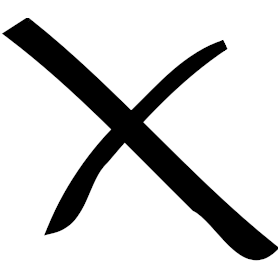
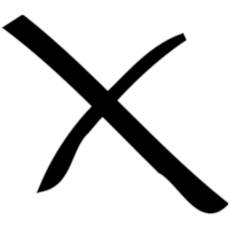
fixed offset imgs at large board size

diff --git a/js/main.js b/js/main.js
@@ -456,7 +456,6 @@ $(document).ready(function() {
       $(`#row${i}`).append(`<div row='${i}' col='${j}' class='col box rounded'></div>`)
       }
     }
-    $('.col.box.rounded').append("<img class=imageInBox/>");
     $('.row').css('height', `${100/cellAmount}%`);
     $('.box').css('width', `${100/cellAmount}%`);
   };
@@ -475,8 +474,8 @@ $(document).ready(function() {
       //Picks random image to print
       let numberPicker = randomInteger(3);
       ticTacToe.turnCount % 2 === 0 ?
-      $(this).find('img:first').attr('class', `displayX${numberPicker + 1}`):
-      $(this).find('img:first').attr('class', `displayO${numberPicker + 1}`)
+      $(this).addClass(`displayX${numberPicker + 1}`):
+      $(this).addClass(`displayO${numberPicker + 1}`)
 
       //prevent further clicks
       $(this).css('pointer-events', 'none');
@@ -494,7 +493,7 @@ $(document).ready(function() {
         let randomRow = ticTacToe.aiCell[0];
         let randomCol = ticTacToe.aiCell[1]
         //prints img and turns off pointer events in div
-        $(`.box[row="${randomRow}"][col="${randomCol}"]`).find('img:first').attr('class', `displayO${randomInteger(3) + 1}`)
+        $(`.box[row="${randomRow}"][col="${randomCol}"]`).addClass(`displayO${randomInteger(3) + 1}`)
         $(`.box[row="${randomRow}"][col="${randomCol}"]`).css('pointer-events', 'none');
         ticTacToe.aiCell[0] = "";
         ticTacToe.aiCell[1] = "";
@@ -531,7 +530,9 @@ $(document).ready(function() {
 
   $('#replayButton').on('click', function() {
     ticTacToe.gameReplay($('#cellInput').val());
-    $('.box img').attr('class', 'imageInBox');
+    $('#container').empty();
+    createRowDivs($('#cellInput').val());
+    createColDivs($('#cellInput').val());
     $('.box').css('pointer-events', 'auto');
     $('#whoWins').html(`${player1Name()}'s Turn`);
     $('#replayButton').attr('disabled', true);
@@ -549,3 +550,6 @@ $(document).ready(function() {
 
 
 }); //document ready
+
+
+// fix restart when change to AI. should restart game.

diff --git a/index.html b/index.html
@@ -14,19 +14,19 @@
   </nav>
   <div id="container">
     <div class="row">
-      <div row="0" col="0" class='col box rounded'><img class="imageInBox"/></div>
-      <div row="0" col="1" class='col box rounded'><img class="imageInBox"/></div>
-      <div row="0" col="2" class='col box rounded'><img class="imageInBox"/></div>
+      <div row="0" col="0" class='col box rounded'></div>
+      <div row="0" col="1" class='col box rounded'></div>
+      <div row="0" col="2" class='col box rounded'></div>
     </div>
     <div class="row" >
-      <div row="1" col="0" class='col box rounded'><img class="imageInBox"/></div>
-      <div row="1" col="1" class='col box rounded'><img class="imageInBox"/></div>
-      <div row="1" col="2" class='col box rounded'><img class="imageInBox"/></div>
+      <div row="1" col="0" class='col box rounded'></div>
+      <div row="1" col="1" class='col box rounded'></div>
+      <div row="1" col="2" class='col box rounded'></div>
     </div>
     <div class="row">
-      <div row="2" col="0" class='col box rounded'><img class="imageInBox"/></div>
-      <div row="2" col="1" class='col box rounded'><img class="imageInBox"/></div>
-      <div row="2" col="2" class='col box rounded'><img class="imageInBox"/></div>
+      <div row="2" col="0" class='col box rounded'></div>
+      <div row="2" col="1" class='col box rounded'></div>
+      <div row="2" col="2" class='col box rounded'></div>
     </div>
   </div>
   <div class="textUnder">

diff --git a/css/style.css b/css/style.css
@@ -43,52 +43,41 @@ header {
   display: none;
 }
 
-.displayX1 {
+/* .displayX1 {
   margin: 0 auto;
   padding: 0;
   width: 100%;
   height: 100%;
   content: url('../images/cross1.png');
+} */
+.displayX1 {
+  background-image: url('../images/cross1.png');
+  background-size: cover;
 }
 
 .displayX2 {
-  margin: 0 auto;
-  padding: 0;
-  width: 100%;
-  height: 100%;
-  content: url('../images/cross2.png');
+  background-image: url('../images/cross2.png');
+  background-size: cover;
 }
 
 .displayX3 {
-  margin: 0 auto;
-  padding: 0;
-  width: 100%;
-  height: 100%;
-  content: url('../images/cross3.png');
+  background-image: url('../images/cross3.png');
+  background-size: cover;
 }
 
 .displayO1 {
-  margin: 0 auto;
-  padding: 0;
-  width: 100%;
-  height: 100%;
-  content: url('../images/circle1.png');
+  background-image: url('../images/circle1.png');
+  background-size: cover;
 }
 
 .displayO2 {
-  margin: 0 auto;
-  padding: 0;
-  width: 100%;
-  height: 100%;
-  content: url('../images/circle2.png');
+  background-image: url('../images/circle2.png');
+  background-size: cover;
 }
 
 .displayO3 {
-  margin: 0 auto;
-  padding: 0;
-  width: 100%;
-  height: 100%;
-  content: url('../images/circle3.png');
+  background-image: url('../images/circle3.png');
+  background-size: cover;
 }
 
 
